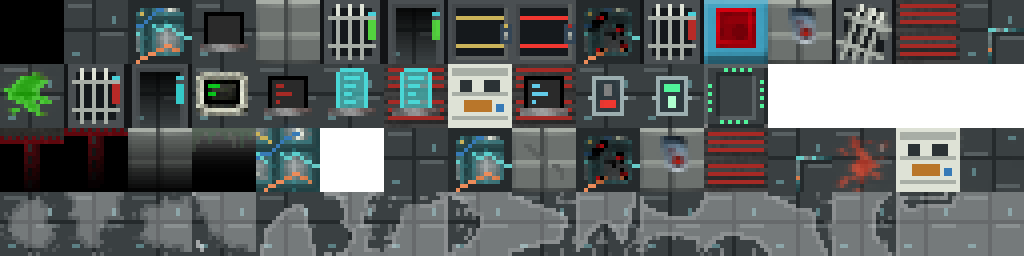
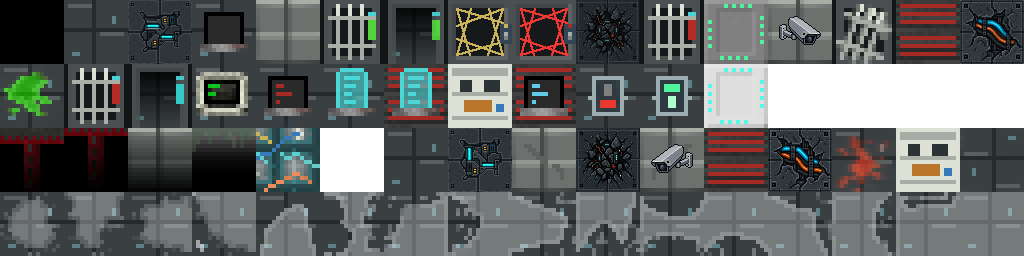
Various sprite and tile updates.
Added pet-carrier.
Updated prison tiles.
Updated core quest sprites.
New workshop sprites.
Security camera fix and update.

diff --git a/core/src/main/java/com/wafitz/pixelspacebase/levels/SecurityBlockLevel.java b/core/src/main/java/com/wafitz/pixelspacebase/levels/SecurityBlockLevel.java
@@ -24,8 +24,6 @@ import com.wafitz.pixelspacebase.Assets;
 import com.wafitz.pixelspacebase.SpacebaseRun;
 import com.wafitz.pixelspacebase.SpacebaseTilemap;
 import com.wafitz.pixelspacebase.actors.mobs.npcs.Gunsmith;
-import com.wafitz.pixelspacebase.effects.Halo;
-import com.wafitz.pixelspacebase.effects.particles.FlameParticle;
 import com.wafitz.pixelspacebase.items.Heap;
 import com.wafitz.pixelspacebase.items.keys.SecurityKey;
 import com.wafitz.pixelspacebase.levels.Room.Type;
@@ -45,8 +43,9 @@ import com.wafitz.pixelspacebase.levels.vents.SummoningVent;
 import com.wafitz.pixelspacebase.levels.vents.TeleportationVent;
 import com.wafitz.pixelspacebase.levels.vents.ToxicVent;
 import com.wafitz.pixelspacebase.messages.Messages;
+import com.watabou.noosa.ColorBlock;
+import com.watabou.noosa.Game;
 import com.watabou.noosa.Group;
-import com.watabou.noosa.particles.Emitter;
 import com.watabou.utils.PointF;
 import com.watabou.utils.Random;
 
@@ -228,33 +227,40 @@ public class SecurityBlockLevel extends RegularLevel {
     static void addPrisonVisuals(Level level, Group group) {
         for (int i = 0; i < level.length(); i++) {
             if (level.map[i] == Terrain.WALL_DECO) {
-                group.add(new Torch(i));
+                group.add(new SecurityCameraLight(level, i));
             }
         }
     }
 
-    private static class Torch extends Emitter {
+    private static class SecurityCameraLight extends ColorBlock {
 
-        private int pos;
+        private final Level level;
+        private final int pos;
+        private float phase;
 
-        Torch(int pos) {
-            super();
+        SecurityCameraLight(Level level, int pos) {
+            super(0.75f, 0.75f, 0xFFFF3030);
 
+            this.level = level;
             this.pos = pos;
+            phase = (pos % 7) * 0.2f;
 
-            PointF p = SpacebaseTilemap.tileCenterToWorld(pos);
-            pos(p.x - 1, p.y + 3, 2, 0);
-
-            pour(FlameParticle.FACTORY, 0.15f);
-
-            add(new Halo(16, 0xFFFFCC, 0.2f).point(p.x, p.y));
+            PointF p = SpacebaseTilemap.tileToWorld(pos);
+            // Indicator socket at source pixel (35, 33) in the 64px camera tile.
+            x = p.x + 35 / 4f;
+            y = p.y + 33 / 4f;
+            visible = false;
         }
 
         @Override
         public void update() {
-            if (visible = SpacebaseRun.visible[pos]) {
-                super.update();
+            super.update();
+            if (level.map[pos] != Terrain.WALL_DECO) {
+                killAndErase();
+                return;
             }
+            phase = (phase + Game.elapsed) % 1.4f;
+            visible = SpacebaseRun.visible[pos] && phase < 0.35f;
         }
     }
 }

diff --git a/core/src/main/java/com/wafitz/pixelspacebase/sprites/ItemSpriteSheet.java b/core/src/main/java/com/wafitz/pixelspacebase/sprites/ItemSpriteSheet.java
@@ -53,6 +53,7 @@ public class ItemSpriteSheet {
     public static final int CHEST = CONTAINERS + 4;
     public static final int LOCKED_CHEST = CONTAINERS + 5;
     public static final int CRYSTAL_CHEST = CONTAINERS + 6;
+    public static final int PET_CARRIER = CONTAINERS + 7;
 
     private static final int SINGLE_USE = xy(1, 3);   //32 slots
     public static final int CLONE = SINGLE_USE;

diff --git a/core/src/main/java/com/wafitz/pixelspacebase/items/PetCarrier.java b/core/src/main/java/com/wafitz/pixelspacebase/items/PetCarrier.java
@@ -37,7 +37,7 @@ public class PetCarrier extends KindofMisc {
     private boolean hasCat;
 
     {
-        image = ItemSpriteSheet.LOCKED_CHEST;
+        image = ItemSpriteSheet.PET_CARRIER;
         unique = true;
         bones = false;
         defaultAction = AC_RELEASE;

diff --git a/docs/PRISON_CAMERA_SPRITE.md b/docs/PRISON_CAMERA_SPRITE.md
@@ -1,0 +1,27 @@
+# Prison security camera
+
+`art/prison-security-camera.png` is the 64x64 transparent camera sprite.
+It is composited over the existing wall backgrounds in `core/src/main/assets/tiles1.png`:
+
+| Frame | Rectangle | Wall background |
+| --- | --- | --- |
+| 12 | x=768, y=0, 64x64 | Frame 4 |
+| 42 | x=640, y=128, 64x64 | Frame 40 |
+
+`SecurityBlockLevel.SecurityCameraLight` adds a 3x3 source-pixel red indicator at
+tile pixel (35,33), on for 0.35 seconds in each 1.4-second cycle. Indicators are
+staggered by cell position, hidden outside current visibility, and removed when
+the wall decoration is destroyed. This replaces the old flame emitter and halo
+on prison floors and their boss level.
+
+Art was created with built-in image generation, then sampled to 64x64 using
+nearest-neighbor sampling and composited over the existing wall tiles. All
+other atlas pixels were verified unchanged from the user's working copy.
+
+## Generation prompt
+
+Use case: precise-object-edit. Create a sharp replacement for the blurry security camera in the LEFT tile of the reference image; the right tile is only a reference for the muted grey game palette. Output ONLY one isolated wall-mounted CCTV camera sprite on a genuinely transparent square background, without any wall or tile background. The camera is a small retro sci-fi security camera, silver grey rectangular housing with a dark lens at the front, a clear short mounting bracket behind it. Three-quarter overhead view for a top-down dungeon game; camera points diagonally down and right. Strong crisp pixel art silhouette, flat limited palette, stepped pixel edges, no blur, gradients, glow, antialiasing, text, or logos. Fine detail should be readable on a 64x64 pixel grid, displayed enlarged with nearest-neighbor pixels. Center the complete camera including bracket within the central 44x44 pixels of that grid, leaving transparent margins. Put a small dark unlit indicator socket next to the lens so the game can overlay a blinking red LED. A recognizable utilitarian surveillance camera, not a photographic camera, no scene or presentation layout. Single square sprite only.
+
+## Transparency correction
+
+Background extraction only. Preserve the exact CCTV camera pixel artwork, its shape, colours, size, orientation and position. Remove ALL the white and grey checkerboard background and replace it with actual fully transparent pixels in the PNG alpha channel. The checkerboard is not transparency: do not draw a checkerboard or any solid background. Keep the camera opaque. Output only the isolated camera with genuine alpha transparency around it and in the gaps in its bracket. No other changes.

diff --git a/docs/PET_CARRIER_SPRITE.md b/docs/PET_CARRIER_SPRITE.md
@@ -1,0 +1,15 @@
+# Pet carrier sprite
+
+The editable standalone sprite is `art/pet-carrier.png` (64x64 RGBA).
+Its runtime copy occupies frame 23 of `core/src/main/assets/items.png`:
+column 8, row 2 (one-based), rectangle x=448, y=64, width=64, height=64.
+`ItemSpriteSheet.PET_CARRIER` selects this frame for `PetCarrier`.
+
+Created with the built-in image-generation tool, then sampled down to 64x64
+using nearest-neighbor sampling, preserving alpha. Ordinary chest frames
+remain separate. To revise the artwork, edit this frame in the item sheet
+and keep the standalone copy in sync.
+
+## Generation prompt
+
+Create a single production pixel-art inventory sprite of a PET CARRIER for a retro sci-fi dungeon game. One empty portable cat travel kennel, instantly recognizable by its prominent top carrying handle, barred front entrance with latch, side ventilation slots, rounded hard-shell upper casing and flat sturdy base. Three-quarter front view, front entrance facing slightly left and side visible on right, modest top visibility. Light cool grey shell, muted teal lower body, dark charcoal door interior and grille, restrained cyan highlights. Hand-placed crisp pixel clusters, limited 12-color palette, no gradients, no soft shading, no glow, no text, no animal, no floor, no scenery. Match an actual 64 by 64 pixel sprite grid with fine individual pixel detail; present as an exact nearest-neighbor enlargement if larger output is required. Entire object centered within a square transparent canvas, object occupies roughly 54 by 50 of the 64 pixel grid with a few transparent pixels padding. Genuine transparent background and clean alpha edges. This is an in-game sprite, not a presentation mockup. Single sprite only.

diff --git a/docs/PRISON_FLOOR_TILES.md b/docs/PRISON_FLOOR_TILES.md
@@ -1,0 +1,13 @@
+# Prison floor tiles
+
+The prison atlas uses the existing maintenance terrain mapping. No gameplay mapping changes are needed. Only frames 2, 9, 15, 39, 41, and 44 in `core/src/main/assets/tiles1.png` were redrawn.
+
+| Frame | Visual role | Alternate |
+| --- | --- | --- |
+| 2 | Powered panel | 39 |
+| 9 | Spent/broken circuitry | 41 |
+| 15 | Open wiring hatch | 44 |
+
+Editable 64 x 64 source frames and a contact sheet are in `art/prison-tiles/`. They were created with built-in image generation, using each matching maintenance tile and the existing prison atlas as references. The prompts requested a top-down, full-bleed, opaque 64 x 64 pixel-art tile in the prison's dark steel palette, with subtle cyan power details and alternate variants for each pair. The output was reduced to 64 x 64 with nearest-neighbour sampling and darkened neutral steel tones to suit the prison sheet.
+
+These are terrain frames, not overlays. Touched/untouched transitions remain controlled by the existing shared terrain mapping, so searched panels do not revert to a plain floor frame.

diff --git a/docs/QUARTERMASTER_BIO_CHARGE_SPRITES.md b/docs/QUARTERMASTER_BIO_CHARGE_SPRITES.md
@@ -1,0 +1,9 @@
+# Quartermaster bio-charge mission sprites
+
+The bio-charge mission keeps its current behavior and save-game classes. Only the visuals changed:
+
+- `core/src/main/assets/rot_heart.png`: immobile robot assembly with a damaged power core, eight 64 x 64 frames.
+- `core/src/main/assets/rot_lasher.png`: articulated robot arm, seven 48 x 64 frames.
+- `core/src/main/assets/items.png`: bio-charge component in the `HUNTER_TRAPPER` icon slot (column 0, row 21), 64 x 64.
+
+The standalone first frames and component icon are in `art/quartermaster/` for future edits. The robot assembly, robot arm and portable core were made with built-in image generation using the previous sprites and `drone.png` as style references. The prompts requested opaque mechanical subjects on transparent backgrounds, hard pixel edges, charcoal steel with cyan/amber details, and no organic features. The frames were fitted to the established sprite sizes with nearest-neighbour sampling; attack and death variants were generated from those first frames.
